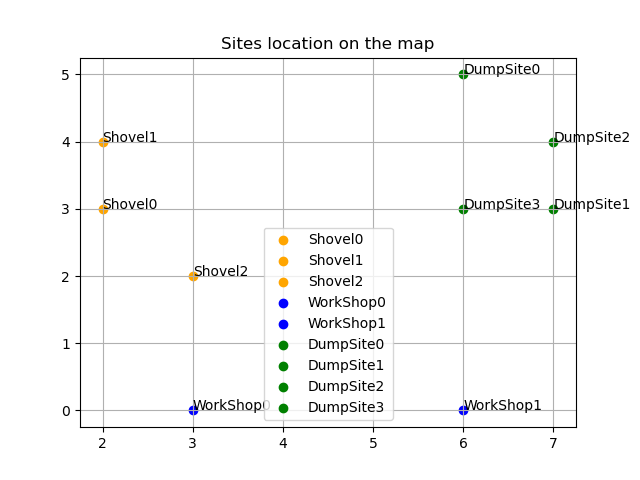
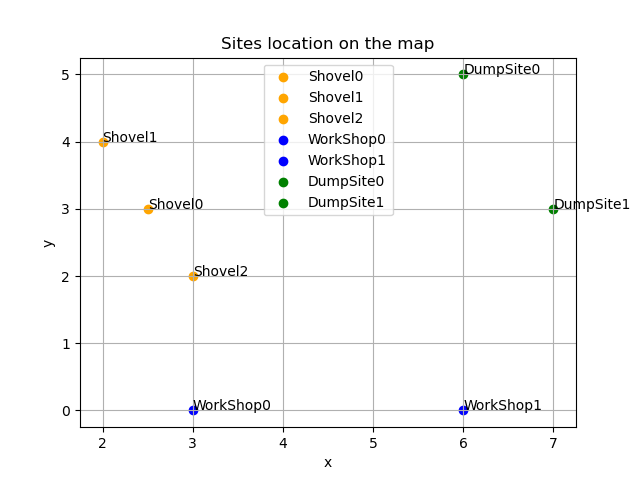
First analysis of costs added

diff --git a/main.py b/main.py
@@ -2,7 +2,7 @@ from Mine import *
 import simpy, csv, json
 from datetime import datetime, timedelta
 from statistics import mean
-#import matplotlib.pyplot as plt
+# import matplotlib.pyplot as plt
 #from tqdm import tqdm
 from multiprocessing import Pool
 
@@ -511,6 +511,7 @@ def GA(initialPopSize, items, simTime):
 def mineMap(thresholds):
     """The function plots the position of sites within the mine."""
     env = simpy.Environment()
+    env.statistics = dict()
     DEBUG = False
     # WORKSHOPS DECLARATION
     with open("data/workshops_data.csv","r",newline="\n") as f:
@@ -549,7 +550,7 @@ def mineMap(thresholds):
         dumpsiteData = [x for x in doc]
     dumpsites = [
         DumpSite(env,i,coordinates=(dumpsiteData[i][2],dumpsiteData[i][3]),mu=dumpsiteData[i][0],sigma=dumpsiteData[i][1])
-        for i in range(4)]
+        for i in range(2)]
 
     colors = ['orange', 'blue', 'green']
     for site in enumerate([shovels, workshops, dumpsites]):
@@ -557,9 +558,11 @@ def mineMap(thresholds):
             plt.scatter(i[1].coordinates[0],i[1].coordinates[1],label=i[1].__class__.__name__+str(i[0]),c=colors[site[0]])
             plt.annotate(i[1].__class__.__name__+str(i[0]),(i[1].coordinates[0],i[1].coordinates[1]))
     plt.title("Sites location on the map")
+    plt.xlabel("x")
+    plt.ylabel("y")
     plt.grid()
-    plt.legend()
-    plt.savefig("figures/mine_map.png")
+    plt.legend(loc=9)
+    plt.savefig("figures/mine_map.eps")
 
 def output_amount(param, time_parameters=None):
     results = std(param, time_parameters=time_parameters, output=False, for_internal_use=True)
@@ -653,22 +656,162 @@ def optimize_configuration(target, n, param, shovels_ub=3, trucks_ub=10, time_pa
 
     return ntrucks, nshovels
 
+def parametrizedP(a, sim_time, output=False):
+
+    from scipy.special import gamma
+
+    # Create the simulation environment
+    env = simpy.Environment()
+    env.statistics = dict()
+
+    with open("data/workshops_data.csv","r",newline="\n") as f:
+        doc = csv.reader(f,delimiter=",",quoting=csv.QUOTE_NONNUMERIC)
+        workshopsData = [x for x in doc]
+    workshops = [
+        WorkShop(env,i,(workshopsData[i][0],workshopsData[i][1]))
+        for i in range(2)]
+
+    with open("data/shovels_data.csv","r",newline="\n") as f:
+        doc = csv.reader(f,delimiter=",",quoting=csv.QUOTE_NONNUMERIC)
+        shovelsData = [x for x in doc]
+    shovels = [
+        Shovel(
+            env,
+            i,
+            coordinates=(shovelsData[i][0],shovelsData[i][1]),
+            mu=shovelsData[i][2],
+            sigma=shovelsData[i][3],
+            muPreventive=shovelsData[i][4],
+            sigmaPreventive=shovelsData[i][5],
+            muCorrective=shovelsData[i][6],
+            sigmaCorrective=shovelsData[i][7],
+            alpha=shovelsData[i][8],
+            beta=shovelsData[i][9],
+            Cc=shovelsData[i][10],
+            Cp=shovelsData[i][11],
+            p=a * shovelsData[i][8] * gamma(1 + 1/shovelsData[i][9]),
+            workshops=workshops)
+        for i in range(3)]
+
+    with open("data/dumpsites_data.csv","r",newline="\n") as f:
+        doc = csv.reader(f,delimiter=",",quoting=csv.QUOTE_NONNUMERIC)
+        dumpsiteData = [x for x in doc]
+    dumpsites = [
+        DumpSite(env,i,coordinates=(dumpsiteData[i][2],dumpsiteData[i][3]),mu=dumpsiteData[i][0],sigma=dumpsiteData[i][1])
+        for i in range(2)]
+
+    with open("data/truck_data.csv","r",newline="\n") as f:
+        doc = csv.reader(f,delimiter=",",quoting=csv.QUOTE_NONNUMERIC)
+        truckData = [x for x in doc]
+    trucks = [Truck(
+        alpha=truckData[i][0],
+        beta=truckData[i][1],
+        muCorrective=truckData[i][6],
+        sigmaCorrective=truckData[i][7],
+        muPreventive=truckData[i][4],
+        sigmaPreventive=truckData[i][5],
+        Cc=truckData[i][2],
+        Cp=truckData[i][3],
+        p=a * truckData[i][0] * gamma(1 + 1/truckData[i][1]),
+        env=env,
+        id=i,
+        shovels=shovels,
+        dumpsites=dumpsites,
+        workshops=workshops,
+        muCapacity=truckData[i][8],
+        sigmaCapacity=truckData[i][9])
+        for i in range(10)]
+
+    begin = datetime.now()
+    # Stick the policy to the classes Shovel and Trucks
+    Shovel.preventiveMaintenanceRule = "age_based"
+    Truck.preventiveMaintenanceRule = "age_based"
+
+    env.run(until=sim_time)
+
+    time_parameters = dict()
+    CMcost = 0
+    PMcost = 0
+
+    # Results and statistics update
+    for i in range(len(trucks)):
+        if output:
+            print("Truck%d: \tFailures =" %i, env.statistics["Truck%d" %i]["Failure"], "\t Preventive =", env.statistics["Truck%d" %i]["PreventiveInterventions"])
+        s = env.statistics["Truck%d"%i]["Statistics"]
+        s["Availability"] = 1 - (s["Failed"] + s["PMRepair"] + s["CMRepair"]) / (sim_time)
+        del env.statistics["Truck%d"%i]["PreventiveMaintenanceHistory"]
+        del env.statistics["Truck%d"%i]["FailureHistory"]
+        del env.statistics["Truck%d"%i]["History"]
+        CMcost += trucks[i].Cc * env.statistics["Truck%d"%i]["Failure"]
+        PMcost += trucks[i].Cp * env.statistics["Truck%d"%i]["PreventiveInterventions"]
+
+    for i in range(len(shovels)):
+        if output:
+            print("Shovel%d:\tFailures =" %i, env.statistics["Shovel%d" %i]["Failure"], "\t Preventive =", env.statistics["Shovel%d" %i]["PreventiveInterventions"])
+        s = env.statistics["Shovel%d"%i]["Statistics"]
+        s["Availability"] = 1 - (s["Failed"] + s["PMRepair"] + s["CMRepair"] + s['TravelTime']) / (sim_time)
+        s["IdleTime"] = sim_time - s["WorkingTime"] - s["TravelTime"] - s["TimeInQueue"] - s["Failed"] - s["PMRepair"] - s["CMRepair"]
+        del env.statistics["Shovel%d"%i]["PreventiveMaintenanceHistory"]
+        del env.statistics["Shovel%d"%i]["FailureHistory"]
+        del env.statistics["Shovel%d"%i]["History"]
+        CMcost += shovels[i].Cc * env.statistics["Shovel%d"%i]["Failure"]
+        PMcost += shovels[i].Cp * env.statistics["Shovel%d"%i]["PreventiveInterventions"]
+
+    for i in range(2):
+        del env.statistics["DumpSite%d"%i]
+
+    return CMcost, PMcost
+
+def mtbf_vs_cost_downtime(values):
+    from tqdm import tqdm
+    import numpy as np
+
+    random.seed(42)
+    sim_time = 1e5
+    N = 5
+    results = np.ndarray((len(values), N, 2))
+
+    for i in tqdm(range(len(values))):
+        for j in range(N):
+            results[i,j,0], results[i,j,1] = parametrizedP(values[i], sim_time)
+
+    np.save("costs", results)
+
+def plot_costs(results, values):
+    import numpy as np
+
+    CM = np.mean(results[:,:,0], axis=1)/1000
+    PM = np.mean(results[:,:,1], axis=1)/1000
+    plt.plot(values, CM, values, PM, values, CM+PM)
+    plt.fill_between(values, CM, PM, where=CM >= PM, facecolor='#F7C8C1')
+    plt.fill_between(values, CM, PM, where=PM >= CM, facecolor='#C1D9F7')
+    plt.xlabel("a")
+    plt.title("Total Cost of CM/PM")
+    plt.ylabel("Cost")
+    plt.legend(["CM cost", "PM cost", "Total cost"])
+    plt.savefig("figures/costs1.png")
+    plt.show()
 
 if __name__ == "__main__":
-    with open('param.json', 'r') as f:
-        param = json.load(f)
+    pass
+    # values = [1, 2, 3, 5, 10, 18, 20, 30, 50, 70]
+
+    # mtbf_vs_cost_downtime(values)
+    # import numpy as np
+    # results = np.load("costs.npy")
+    # plot_costs(results, values)
+
+    # with open('param.json', 'r') as f:
+    #     param = json.load(f)
     # with open('results2.json', 'r') as f:
     #     thresholds = json.load(f)
     # param['shovelPolicy'] = thresholds['shovels']
     # param['truckPolicy'] =  thresholds['trucks']
     # param['seed'] = []
-
     # results = std(param)
-
-    optimize_configuration(4, 10, param)
-
+    # optimize_configuration(4, 10, param)
     # best, score = GA(70, 13, 2*1e5)
-
     # with open("results.json", "w") as f:
     #     json.dump(best, f)
     # pass
+
